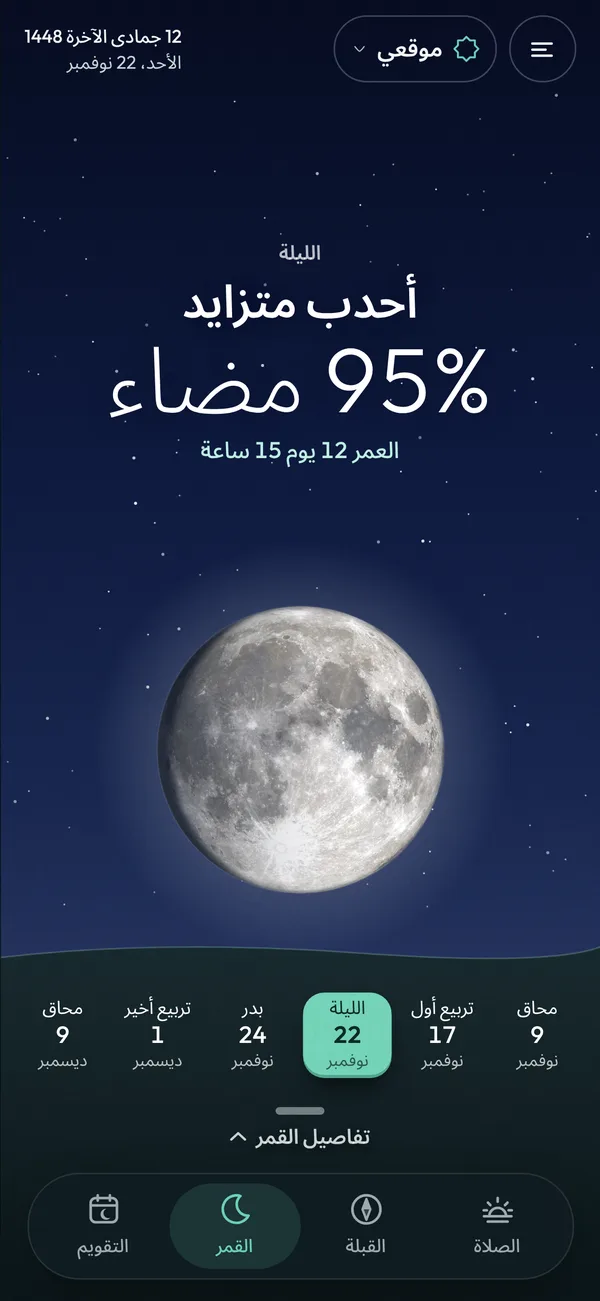
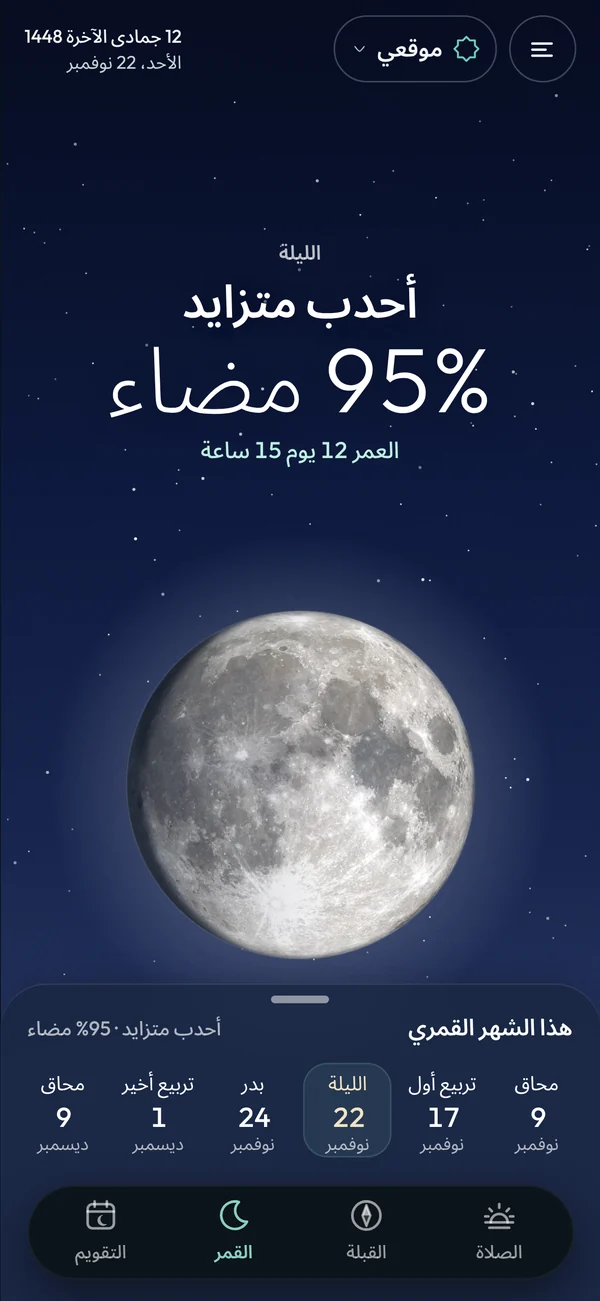
Site for 1.2.2 (publish on release day): privacy lists the announcements download; support Hijri step moved to the Calendar tab; phone images recaptured from the 1.2.2 build (one sheet), EN/AR
Claude-Session: https://claude.ai/code/session_01CTkcYGxRRXc6Q2ebrmyknd

Changed region(s): [[0.0, 0.4612, 1.0, 1.0]]

diff --git a/support.html b/support.html
@@ -347,7 +347,7 @@ h1,h2,h3,p{margin:0}
 <main class="wrap"><h2 class="sh" style="margin-top:72px">Quick fixes</h2><div class="grid3">
 <section class="card fix"><div class="hd"><span class="ico"><svg viewBox="0 0 24 24" fill="none" stroke="currentColor" stroke-width="1.6" stroke-linecap="round" stroke-linejoin="round" aria-hidden="true"><circle cx="12" cy="12" r="9"/><path d="M12 7v5l3.2 2"/></svg></span><h3>Times differ from the mosque by a minute?</h3></div><ol class="steps"><li><span class="si"><svg viewBox="0 0 24 24" fill="none" stroke="currentColor" stroke-width="1.6" stroke-linecap="round" stroke-linejoin="round" aria-hidden="true"><path d="M4 5.5A2.5 2.5 0 016.5 3H20v15H6.5A2.5 2.5 0 004 20.5z"/><path d="M4 20.5A2.5 2.5 0 006.5 23H20v-5"/></svg></span><span>In the UAE, Saudi Arabia and Egypt, Arihna follows the official timetable for your area</span></li><li><span class="si"><svg viewBox="0 0 24 24" fill="none" stroke="currentColor" stroke-width="1.6" stroke-linecap="round" stroke-linejoin="round" aria-hidden="true" stroke-width="2"><path d="M5 12.5l4.2 4.2L19 7"/></svg></span><span>In the UK, the US and Canada, tap Match my mosque under the countdown and fit your mosque’s times</span></li></ol></section>
 <section class="card fix"><div class="hd"><span class="ico"><svg viewBox="0 0 24 24" fill="none" stroke="currentColor" stroke-width="1.6" stroke-linecap="round" stroke-linejoin="round" aria-hidden="true"><circle cx="12" cy="12" r="9"/><path d="M15.5 8.5l-2 5-5 2 2-5z"/></svg></span><h3>The compass seems off?</h3></div><ol class="steps"><li><span class="si"><svg viewBox="0 0 24 24" fill="none" stroke="currentColor" stroke-width="1.6" stroke-linecap="round" stroke-linejoin="round" aria-hidden="true"><path d="M6 4h4v8a2 2 0 004 0V4h4v8a6 6 0 01-12 0z"/><path d="M6 8h4M14 8h4"/></svg></span><span>Move away from metal, magnets, cars and magnetic cases</span></li><li><span class="si"><svg viewBox="0 0 24 24" fill="none" stroke="currentColor" stroke-width="1.6" stroke-linecap="round" stroke-linejoin="round" aria-hidden="true"><path d="M12 12c-2.6-2.4-6-3.4-6-.1S9.4 14.4 12 12s6-3.4 6-.1-3.4 2.5-6 .1z"/></svg></span><span>Wave the phone in a figure of eight</span></li><li><span class="si"><svg viewBox="0 0 24 24" fill="none" stroke="currentColor" stroke-width="1.6" stroke-linecap="round" stroke-linejoin="round" aria-hidden="true"><circle cx="12" cy="12" r="4"/><path d="M12 2.5v2M12 19.5v2M2.5 12h2M19.5 12h2M5.3 5.3l1.4 1.4M17.3 17.3l1.4 1.4M5.3 18.7l1.4-1.4M17.3 6.7l1.4-1.4"/></svg></span><span>Far from Makkah, the direction can differ from a straight line on Google Maps: Qibla details shows why on a globe</span></li></ol></section>
-<section class="card fix"><div class="hd"><span class="ico"><svg viewBox="0 0 24 24" fill="none" stroke="currentColor" stroke-width="1.6" stroke-linecap="round" stroke-linejoin="round" aria-hidden="true"><path d="M20 14.5A8 8 0 019.5 4a8 8 0 1010.5 10.5z"/></svg></span><h3>The Hijri date is a day apart?</h3></div><ol class="steps"><li><span class="si"><svg viewBox="0 0 24 24" fill="none" stroke="currentColor" stroke-width="2" stroke-linecap="round" stroke-linejoin="round" aria-hidden="true"><path d="M5 12.5l4.2 4.2L19 7"/></svg></span><span>Each country keeps its own calendar: Umm al-Qura in Saudi Arabia, Awqaf in the UAE, Dar al-Ifta in Egypt</span></li><li><span class="si"><svg viewBox="0 0 24 24" fill="none" stroke="currentColor" stroke-width="2" stroke-linecap="round" stroke-linejoin="round" aria-hidden="true"><path d="M5 12.5l4.2 4.2L19 7"/></svg></span><span>Elsewhere, choose Saudi Arabia or the Fiqh Council of North America under Hijri calendar in Settings</span></li></ol></section>
+<section class="card fix"><div class="hd"><span class="ico"><svg viewBox="0 0 24 24" fill="none" stroke="currentColor" stroke-width="1.6" stroke-linecap="round" stroke-linejoin="round" aria-hidden="true"><path d="M20 14.5A8 8 0 019.5 4a8 8 0 1010.5 10.5z"/></svg></span><h3>The Hijri date is a day apart?</h3></div><ol class="steps"><li><span class="si"><svg viewBox="0 0 24 24" fill="none" stroke="currentColor" stroke-width="2" stroke-linecap="round" stroke-linejoin="round" aria-hidden="true"><path d="M5 12.5l4.2 4.2L19 7"/></svg></span><span>Each country keeps its own calendar: Umm al-Qura in Saudi Arabia, Awqaf in the UAE, Dar al-Ifta in Egypt</span></li><li><span class="si"><svg viewBox="0 0 24 24" fill="none" stroke="currentColor" stroke-width="2" stroke-linecap="round" stroke-linejoin="round" aria-hidden="true"><path d="M5 12.5l4.2 4.2L19 7"/></svg></span><span>Elsewhere, tap the Hijri line on the Calendar tab and choose Saudi Arabia or the Fiqh Council of North America</span></li></ol></section>
 <section class="card fix"><div class="hd"><span class="ico"><svg viewBox="0 0 24 24" fill="none" stroke="currentColor" stroke-width="1.6" stroke-linecap="round" stroke-linejoin="round" aria-hidden="true"><path d="M6 16V11a6 6 0 0112 0v5l1.5 2h-15z"/><path d="M10 20.5a2.2 2.2 0 004 0"/></svg></span><h3>Notifications don’t arrive?</h3></div><ol class="steps"><li><span class="si"><svg viewBox="0 0 24 24" fill="none" stroke="currentColor" stroke-width="1.6" stroke-linecap="round" stroke-linejoin="round" aria-hidden="true"><circle cx="12" cy="12" r="3"/><path d="M19.4 15a1.6 1.6 0 00.3 1.8l.1.1a2 2 0 11-2.8 2.8l-.1-.1a1.6 1.6 0 00-1.8-.3 1.6 1.6 0 00-1 1.5V21a2 2 0 01-4 0v-.1a1.6 1.6 0 00-1-1.5 1.6 1.6 0 00-1.8.3l-.1.1a2 2 0 11-2.8-2.8l.1-.1a1.6 1.6 0 00.3-1.8 1.6 1.6 0 00-1.5-1H3a2 2 0 010-4h.1a1.6 1.6 0 001.5-1 1.6 1.6 0 00-.3-1.8l-.1-.1a2 2 0 112.8-2.8l.1.1a1.6 1.6 0 001.8.3H9a1.6 1.6 0 001-1.5V3a2 2 0 014 0v.1a1.6 1.6 0 001 1.5 1.6 1.6 0 001.8-.3l.1-.1a2 2 0 112.8 2.8l-.1.1a1.6 1.6 0 00-.3 1.8V9a1.6 1.6 0 001.5 1H21a2 2 0 010 4h-.1a1.6 1.6 0 00-1.5 1z"/></svg></span><span>iPhone Settings → Notifications → Arihna</span></li><li><span class="si"><svg viewBox="0 0 24 24" fill="none" stroke="currentColor" stroke-width="1.6" stroke-linecap="round" stroke-linejoin="round" aria-hidden="true"><path d="M20 11a8 8 0 00-14.3-4.6L4 8M4 4v4h4M4 13a8 8 0 0014.3 4.6L20 16M20 20v-4h-4"/></svg></span><span>Open the app every week or two: iOS keeps a limited number of alerts, and the app tops them up</span></li></ol></section>
 <section class="card fix"><div class="hd"><span class="ico"><svg viewBox="0 0 24 24" fill="none" stroke="currentColor" stroke-width="1.6" stroke-linecap="round" stroke-linejoin="round" aria-hidden="true"><circle cx="12" cy="12" r="7.5" stroke-dasharray=".1 3.9"/><path d="M12 19.5V22"/></svg></span><h3>Morning and evening remembrance</h3></div><ol class="steps"><li><span class="si"><svg viewBox="0 0 24 24" fill="none" stroke="currentColor" stroke-width="1.6" stroke-linecap="round" stroke-linejoin="round" aria-hidden="true"><circle cx="12" cy="12" r="3"/></svg></span><span>From Hisn al-Muslim, in Arabic. Open it from the menu, or from Today’s times</span></li><li><span class="si"><svg viewBox="0 0 24 24" fill="none" stroke="currentColor" stroke-width="1.6" stroke-linecap="round" stroke-linejoin="round" aria-hidden="true"><circle cx="12" cy="12" r="3"/></svg></span><span>Reminders are off until you turn them on: Menu, then Adhan and alerts</span></li><li><span class="si"><svg viewBox="0 0 24 24" fill="none" stroke="currentColor" stroke-width="1.6" stroke-linecap="round" stroke-linejoin="round" aria-hidden="true"><circle cx="12" cy="12" r="3"/></svg></span><span>Found a difference from the printed book? Tell us the dhikr and what differs</span></li></ol></section>
 <section class="card fix" id="credits"><div class="hd"><span class="ico"><svg viewBox="0 0 24 24" fill="none" stroke="currentColor" stroke-width="1.6" stroke-linecap="round" stroke-linejoin="round" aria-hidden="true"><path d="M5 4h11a3 3 0 0 1 3 3v13H8a3 3 0 0 1-3-3z"/><path d="M9 9h6"/></svg></span><h3>Sources and credits</h3></div><ol class="steps"><li><span class="si"><svg viewBox="0 0 24 24" fill="none" stroke="currentColor" stroke-width="1.6" stroke-linecap="round" stroke-linejoin="round" aria-hidden="true"><circle cx="12" cy="12" r="3"/></svg></span><span>Remembrance: Hisn al-Muslim, by Dr. Sa’id ibn Ali ibn Wahf al-Qahtani</span></li><li><span class="si"><svg viewBox="0 0 24 24" fill="none" stroke="currentColor" stroke-width="1.6" stroke-linecap="round" stroke-linejoin="round" aria-hidden="true"><circle cx="12" cy="12" r="3"/></svg></span><span>Qur’anic text: Tanzil Project, tanzil.net</span></li><li><span class="si"><svg viewBox="0 0 24 24" fill="none" stroke="currentColor" stroke-width="1.6" stroke-linecap="round" stroke-linejoin="round" aria-hidden="true"><circle cx="12" cy="12" r="3"/></svg></span><span>Adhan of Makkah: Seyfula Islam, CC BY 3.0, via Wikimedia Commons. Adhan of Madinah: public domain. Moon picture: NASA’s Scientific Visualization Studio (Lunar Reconnaissance Orbiter)</span></li></ol></section>
@@ -357,7 +357,7 @@ h1,h2,h3,p{margin:0}
 <main class="wrap"><h2 class="sh" style="margin-top:72px">حلول سريعة</h2><div class="grid3">
 <section class="card fix"><div class="hd"><span class="ico"><svg viewBox="0 0 24 24" fill="none" stroke="currentColor" stroke-width="1.6" stroke-linecap="round" stroke-linejoin="round" aria-hidden="true"><circle cx="12" cy="12" r="9"/><path d="M12 7v5l3.2 2"/></svg></span><h3>المواقيت تختلف عن المسجد بدقيقة؟</h3></div><ol class="steps"><li><span class="si"><svg viewBox="0 0 24 24" fill="none" stroke="currentColor" stroke-width="1.6" stroke-linecap="round" stroke-linejoin="round" aria-hidden="true"><path d="M4 5.5A2.5 2.5 0 016.5 3H20v15H6.5A2.5 2.5 0 004 20.5z"/><path d="M4 20.5A2.5 2.5 0 006.5 23H20v-5"/></svg></span><span>في الإمارات والسعودية ومصر يتبع أرحنا الجدول الرسمي لمنطقتك</span></li><li><span class="si"><svg viewBox="0 0 24 24" fill="none" stroke="currentColor" stroke-width="1.6" stroke-linecap="round" stroke-linejoin="round" aria-hidden="true" stroke-width="2"><path d="M5 12.5l4.2 4.2L19 7"/></svg></span><span>في المملكة المتحدة والولايات المتحدة وكندا اضغط «طابق مسجدي» أسفل العدّ وطابِق مواقيت مسجدك</span></li></ol></section>
 <section class="card fix"><div class="hd"><span class="ico"><svg viewBox="0 0 24 24" fill="none" stroke="currentColor" stroke-width="1.6" stroke-linecap="round" stroke-linejoin="round" aria-hidden="true"><circle cx="12" cy="12" r="9"/><path d="M15.5 8.5l-2 5-5 2 2-5z"/></svg></span><h3>البوصلة تبدو غير دقيقة؟</h3></div><ol class="steps"><li><span class="si"><svg viewBox="0 0 24 24" fill="none" stroke="currentColor" stroke-width="1.6" stroke-linecap="round" stroke-linejoin="round" aria-hidden="true"><path d="M6 4h4v8a2 2 0 004 0V4h4v8a6 6 0 01-12 0z"/><path d="M6 8h4M14 8h4"/></svg></span><span>ابتعد عن المعادن والمغناطيس والسيارات والأغطية المغناطيسية</span></li><li><span class="si"><svg viewBox="0 0 24 24" fill="none" stroke="currentColor" stroke-width="1.6" stroke-linecap="round" stroke-linejoin="round" aria-hidden="true"><path d="M12 12c-2.6-2.4-6-3.4-6-.1S9.4 14.4 12 12s6-3.4 6-.1-3.4 2.5-6 .1z"/></svg></span><span>حرّك الهاتف على شكل الرقم 8</span></li><li><span class="si"><svg viewBox="0 0 24 24" fill="none" stroke="currentColor" stroke-width="1.6" stroke-linecap="round" stroke-linejoin="round" aria-hidden="true"><circle cx="12" cy="12" r="4"/><path d="M12 2.5v2M12 19.5v2M2.5 12h2M19.5 12h2M5.3 5.3l1.4 1.4M17.3 17.3l1.4 1.4M5.3 18.7l1.4-1.4M17.3 6.7l1.4-1.4"/></svg></span><span>بعيدًا عن مكة قد يختلف الاتجاه عن الخط المستقيم في خرائط Google، وتفاصيل القبلة تشرح السبب على الكرة الأرضية</span></li></ol></section>
-<section class="card fix"><div class="hd"><span class="ico"><svg viewBox="0 0 24 24" fill="none" stroke="currentColor" stroke-width="1.6" stroke-linecap="round" stroke-linejoin="round" aria-hidden="true"><path d="M20 14.5A8 8 0 019.5 4a8 8 0 1010.5 10.5z"/></svg></span><h3>التاريخ الهجري يختلف بيوم؟</h3></div><ol class="steps"><li><span class="si"><svg viewBox="0 0 24 24" fill="none" stroke="currentColor" stroke-width="2" stroke-linecap="round" stroke-linejoin="round" aria-hidden="true"><path d="M5 12.5l4.2 4.2L19 7"/></svg></span><span>لكل دولة تقويمها: أم القرى في السعودية، والأوقاف في الإمارات، ودار الإفتاء في مصر</span></li><li><span class="si"><svg viewBox="0 0 24 24" fill="none" stroke="currentColor" stroke-width="2" stroke-linecap="round" stroke-linejoin="round" aria-hidden="true"><path d="M5 12.5l4.2 4.2L19 7"/></svg></span><span>وفي غيرها اختر السعودية أو المجلس الفقهي لأمريكا الشمالية من «التقويم الهجري» في الإعدادات</span></li></ol></section>
+<section class="card fix"><div class="hd"><span class="ico"><svg viewBox="0 0 24 24" fill="none" stroke="currentColor" stroke-width="1.6" stroke-linecap="round" stroke-linejoin="round" aria-hidden="true"><path d="M20 14.5A8 8 0 019.5 4a8 8 0 1010.5 10.5z"/></svg></span><h3>التاريخ الهجري يختلف بيوم؟</h3></div><ol class="steps"><li><span class="si"><svg viewBox="0 0 24 24" fill="none" stroke="currentColor" stroke-width="2" stroke-linecap="round" stroke-linejoin="round" aria-hidden="true"><path d="M5 12.5l4.2 4.2L19 7"/></svg></span><span>لكل دولة تقويمها: أم القرى في السعودية، والأوقاف في الإمارات، ودار الإفتاء في مصر</span></li><li><span class="si"><svg viewBox="0 0 24 24" fill="none" stroke="currentColor" stroke-width="2" stroke-linecap="round" stroke-linejoin="round" aria-hidden="true"><path d="M5 12.5l4.2 4.2L19 7"/></svg></span><span>وفي غيرها اضغط سطر التقويم الهجري في صفحة التقويم واختر السعودية أو المجلس الفقهي لأمريكا الشمالية</span></li></ol></section>
 <section class="card fix"><div class="hd"><span class="ico"><svg viewBox="0 0 24 24" fill="none" stroke="currentColor" stroke-width="1.6" stroke-linecap="round" stroke-linejoin="round" aria-hidden="true"><path d="M6 16V11a6 6 0 0112 0v5l1.5 2h-15z"/><path d="M10 20.5a2.2 2.2 0 004 0"/></svg></span><h3>التنبيهات لا تصل؟</h3></div><ol class="steps"><li><span class="si"><svg viewBox="0 0 24 24" fill="none" stroke="currentColor" stroke-width="1.6" stroke-linecap="round" stroke-linejoin="round" aria-hidden="true"><circle cx="12" cy="12" r="3"/><path d="M19.4 15a1.6 1.6 0 00.3 1.8l.1.1a2 2 0 11-2.8 2.8l-.1-.1a1.6 1.6 0 00-1.8-.3 1.6 1.6 0 00-1 1.5V21a2 2 0 01-4 0v-.1a1.6 1.6 0 00-1-1.5 1.6 1.6 0 00-1.8.3l-.1.1a2 2 0 11-2.8-2.8l.1-.1a1.6 1.6 0 00.3-1.8 1.6 1.6 0 00-1.5-1H3a2 2 0 010-4h.1a1.6 1.6 0 001.5-1 1.6 1.6 0 00-.3-1.8l-.1-.1a2 2 0 112.8-2.8l.1.1a1.6 1.6 0 001.8.3H9a1.6 1.6 0 001-1.5V3a2 2 0 014 0v.1a1.6 1.6 0 001 1.5 1.6 1.6 0 001.8-.3l.1-.1a2 2 0 112.8 2.8l-.1.1a1.6 1.6 0 00-.3 1.8V9a1.6 1.6 0 001.5 1H21a2 2 0 010 4h-.1a1.6 1.6 0 00-1.5 1z"/></svg></span><span>إعدادات iPhone ← الإشعارات ← أرحنا</span></li><li><span class="si"><svg viewBox="0 0 24 24" fill="none" stroke="currentColor" stroke-width="1.6" stroke-linecap="round" stroke-linejoin="round" aria-hidden="true"><path d="M20 11a8 8 0 00-14.3-4.6L4 8M4 4v4h4M4 13a8 8 0 0014.3 4.6L20 16M20 20v-4h-4"/></svg></span><span>افتح التطبيق كل أسبوع أو أسبوعين: يحتفظ iOS بعدد محدود من التنبيهات، ويجددها التطبيق</span></li></ol></section>
 <section class="card fix"><div class="hd"><span class="ico"><svg viewBox="0 0 24 24" fill="none" stroke="currentColor" stroke-width="1.6" stroke-linecap="round" stroke-linejoin="round" aria-hidden="true"><circle cx="12" cy="12" r="7.5" stroke-dasharray=".1 3.9"/><path d="M12 19.5V22"/></svg></span><h3>أذكار الصباح والمساء</h3></div><ol class="steps"><li><span class="si"><svg viewBox="0 0 24 24" fill="none" stroke="currentColor" stroke-width="1.6" stroke-linecap="round" stroke-linejoin="round" aria-hidden="true"><circle cx="12" cy="12" r="3"/></svg></span><span>من «حصن المسلم»، بالعربية. افتحها من القائمة أو من «مواقيت اليوم»</span></li><li><span class="si"><svg viewBox="0 0 24 24" fill="none" stroke="currentColor" stroke-width="1.6" stroke-linecap="round" stroke-linejoin="round" aria-hidden="true"><circle cx="12" cy="12" r="3"/></svg></span><span>التذكير متوقف إلى أن تفعّله: القائمة، ثم «الأذان والتنبيهات»</span></li><li><span class="si"><svg viewBox="0 0 24 24" fill="none" stroke="currentColor" stroke-width="1.6" stroke-linecap="round" stroke-linejoin="round" aria-hidden="true"><circle cx="12" cy="12" r="3"/></svg></span><span>وجدت اختلافًا عن النسخة المطبوعة؟ اذكر لنا الذكر وموضع الاختلاف</span></li></ol></section>
 <section class="card fix" id="credits-ar"><div class="hd"><span class="ico"><svg viewBox="0 0 24 24" fill="none" stroke="currentColor" stroke-width="1.6" stroke-linecap="round" stroke-linejoin="round" aria-hidden="true"><path d="M5 4h11a3 3 0 0 1 3 3v13H8a3 3 0 0 1-3-3z"/><path d="M9 9h6"/></svg></span><h3>المصادر والحقوق</h3></div><ol class="steps"><li><span class="si"><svg viewBox="0 0 24 24" fill="none" stroke="currentColor" stroke-width="1.6" stroke-linecap="round" stroke-linejoin="round" aria-hidden="true"><circle cx="12" cy="12" r="3"/></svg></span><span>الأذكار: «حصن المسلم» للدكتور سعيد بن علي بن وهف القحطاني</span></li><li><span class="si"><svg viewBox="0 0 24 24" fill="none" stroke="currentColor" stroke-width="1.6" stroke-linecap="round" stroke-linejoin="round" aria-hidden="true"><circle cx="12" cy="12" r="3"/></svg></span><span>النص القرآني: مشروع تنزيل، tanzil.net</span></li><li><span class="si"><svg viewBox="0 0 24 24" fill="none" stroke="currentColor" stroke-width="1.6" stroke-linecap="round" stroke-linejoin="round" aria-hidden="true"><circle cx="12" cy="12" r="3"/></svg></span><span>أذان مكة المكرمة: Seyfula Islam، بترخيص CC BY 3.0، عبر ويكيميديا كومنز. أذان المدينة المنورة: ملكية عامة. صورة القمر: استوديو التصوير العلمي في ناسا (مسبار استطلاع القمر)</span></li></ol></section>

diff --git a/privacy.html b/privacy.html
@@ -350,7 +350,7 @@ h1,h2,h3,p{margin:0}
 <section class="card"><div class="hd"><span class="ico sky"><svg viewBox="0 0 24 24" fill="none" stroke="currentColor" stroke-width="1.6" stroke-linecap="round" stroke-linejoin="round" aria-hidden="true"><path d="M12 21s-6.5-5.6-6.5-11a6.5 6.5 0 0113 0c0 5.4-6.5 11-6.5 11z"/><circle cx="12" cy="10" r="2.4"/></svg></span><div><h3>Location</h3><span class="tag">Optional</span></div></div><ul class="ck"><li><svg viewBox="0 0 24 24" fill="none" stroke="currentColor" stroke-width="1.6" stroke-linecap="round" stroke-linejoin="round" aria-hidden="true" stroke-width="2"><path d="M5 12.5l4.2 4.2L19 7"/></svg><span>Used only if you choose “My location”</span></li><li><svg viewBox="0 0 24 24" fill="none" stroke="currentColor" stroke-width="1.6" stroke-linecap="round" stroke-linejoin="round" aria-hidden="true" stroke-width="2"><path d="M5 12.5l4.2 4.2L19 7"/></svg><span>Stays inside the app and its widgets</span></li><li><svg viewBox="0 0 24 24" fill="none" stroke="currentColor" stroke-width="1.6" stroke-linecap="round" stroke-linejoin="round" aria-hidden="true" stroke-width="2"><path d="M5 12.5l4.2 4.2L19 7"/></svg><span>Your area name comes from Apple, once, as in Maps</span></li><li><svg viewBox="0 0 24 24" fill="none" stroke="currentColor" stroke-width="1.6" stroke-linecap="round" stroke-linejoin="round" aria-hidden="true" stroke-width="2"><path d="M5 12.5l4.2 4.2L19 7"/></svg><span>Or pick a city from the list and share nothing</span></li></ul></section>
 <section class="card"><div class="hd"><span class="ico sky"><svg viewBox="0 0 24 24" fill="none" stroke="currentColor" stroke-width="1.6" stroke-linecap="round" stroke-linejoin="round" aria-hidden="true"><circle cx="12" cy="12" r="9"/><path d="M15.5 8.5l-2 5-5 2 2-5z"/></svg></span><div><h3>Compass and motion</h3><span class="tag">Qibla screen only</span></div></div><ul class="ck"><li><svg viewBox="0 0 24 24" fill="none" stroke="currentColor" stroke-width="1.6" stroke-linecap="round" stroke-linejoin="round" aria-hidden="true" stroke-width="2"><path d="M5 12.5l4.2 4.2L19 7"/></svg><span>Read live to turn the dial</span></li><li><svg viewBox="0 0 24 24" fill="none" stroke="currentColor" stroke-width="1.6" stroke-linecap="round" stroke-linejoin="round" aria-hidden="true" stroke-width="2"><path d="M5 12.5l4.2 4.2L19 7"/></svg><span>Never stored, never sent</span></li></ul></section>
 <section class="card"><div class="hd"><span class="ico sky"><svg viewBox="0 0 24 24" fill="none" stroke="currentColor" stroke-width="1.6" stroke-linecap="round" stroke-linejoin="round" aria-hidden="true"><path d="M6 16V11a6 6 0 0112 0v5l1.5 2h-15z"/><path d="M10 20.5a2.2 2.2 0 004 0"/></svg></span><div><h3>Notifications and Live Activity</h3><span class="tag">On your phone</span></div></div><ul class="ck"><li><svg viewBox="0 0 24 24" fill="none" stroke="currentColor" stroke-width="1.6" stroke-linecap="round" stroke-linejoin="round" aria-hidden="true" stroke-width="2"><path d="M5 12.5l4.2 4.2L19 7"/></svg><span>Scheduled by iOS itself</span></li><li><svg viewBox="0 0 24 24" fill="none" stroke="currentColor" stroke-width="1.6" stroke-linecap="round" stroke-linejoin="round" aria-hidden="true" stroke-width="2"><path d="M5 12.5l4.2 4.2L19 7"/></svg><span>No push server involved</span></li></ul></section>
-<section class="card"><div class="hd"><span class="ico sky"><svg viewBox="0 0 24 24" fill="none" stroke="currentColor" stroke-width="1.6" stroke-linecap="round" stroke-linejoin="round" aria-hidden="true"><path d="M12 4v10"/><path d="M7.5 9.5L12 14l4.5-4.5"/><path d="M5 19h14"/></svg></span><div><h3>Updates</h3><span class="tag">Once a day</span></div></div><ul class="ck"><li><svg viewBox="0 0 24 24" fill="none" stroke="currentColor" stroke-width="1.6" stroke-linecap="round" stroke-linejoin="round" aria-hidden="true" stroke-width="2"><path d="M5 12.5l4.2 4.2L19 7"/></svg><span>The app asks Apple whether a newer version is available</span></li><li><svg viewBox="0 0 24 24" fill="none" stroke="currentColor" stroke-width="1.6" stroke-linecap="round" stroke-linejoin="round" aria-hidden="true" stroke-width="2"><path d="M5 12.5l4.2 4.2L19 7"/></svg><span>Nothing about you is sent</span></li></ul></section>
+<section class="card"><div class="hd"><span class="ico sky"><svg viewBox="0 0 24 24" fill="none" stroke="currentColor" stroke-width="1.6" stroke-linecap="round" stroke-linejoin="round" aria-hidden="true"><path d="M12 4v10"/><path d="M7.5 9.5L12 14l4.5-4.5"/><path d="M5 19h14"/></svg></span><div><h3>Updates and announcements</h3><span class="tag">Once a day</span></div></div><ul class="ck"><li><svg viewBox="0 0 24 24" fill="none" stroke="currentColor" stroke-width="1.6" stroke-linecap="round" stroke-linejoin="round" aria-hidden="true" stroke-width="2"><path d="M5 12.5l4.2 4.2L19 7"/></svg><span>The app asks Apple whether a newer version is available</span></li><li><svg viewBox="0 0 24 24" fill="none" stroke="currentColor" stroke-width="1.6" stroke-linecap="round" stroke-linejoin="round" aria-hidden="true" stroke-width="2"><path d="M5 12.5l4.2 4.2L19 7"/></svg><span>With notifications on, it downloads Arihna’s signed list of month announcements from getarihna.com</span></li><li><svg viewBox="0 0 24 24" fill="none" stroke="currentColor" stroke-width="1.6" stroke-linecap="round" stroke-linejoin="round" aria-hidden="true" stroke-width="2"><path d="M5 12.5l4.2 4.2L19 7"/></svg><span>Nothing about you is sent</span></li></ul></section>
 </div><div class="notes"><div class="note"><span class="ico sun"><svg viewBox="0 0 24 24" fill="none" stroke="currentColor" stroke-width="1.6" stroke-linecap="round" stroke-linejoin="round" aria-hidden="true"><circle cx="12" cy="6" r="2.6"/><path d="M8 21v-5l-2-3.5 3-2.5h6l3 2.5-2 3.5v5"/></svg></span><div><b>All ages</b><span>The app collects nothing from anyone, including children.</span></div></div><div class="note"><span class="ico sun"><svg viewBox="0 0 24 24" fill="none" stroke="currentColor" stroke-width="1.6" stroke-linecap="round" stroke-linejoin="round" aria-hidden="true"><path d="M20 11a8 8 0 00-14.3-4.6L4 8M4 4v4h4M4 13a8 8 0 0014.3 4.6L20 16M20 20v-4h-4"/></svg></span><div><b>Changes</b><span>Any update is published here with a new date.</span></div></div></div>
 <a class="xcard" href="support.html"><span class="ico sky"><svg viewBox="0 0 24 24" fill="none" stroke="currentColor" stroke-width="1.6" stroke-linecap="round" stroke-linejoin="round" aria-hidden="true"><path d="M4 5.5h16v10.5H9.5L5 19.5V16H4z"/><path d="M8.5 9.5h7M8.5 12.5h4.5"/></svg></span><div><b>Need help?</b><small>Quick fixes and feedback</small></div><svg viewBox="0 0 24 24" fill="none" stroke="currentColor" stroke-width="1.6" stroke-linecap="round" stroke-linejoin="round" aria-hidden="true"><path d="M5 12h14M13 6l6 6-6 6"/></svg></a><div class="dend"></div></main><div class="wrap"><footer class="foot"><span>© 2026 Amr Hafez · Visits counted by GoatCounter, without cookies or personal data</span><nav class="fl"><a href="./">Arihna</a><a href="privacy.html">Privacy</a><a href="support.html">Support</a><a href="mailto:arihna.app@gmail.com">arihna.app@gmail.com</a></nav></footer></div></div><div class="site" lang="ar" dir="rtl" data-l="ar"><header class="dhead"><div class="stars"></div><div class="wrap">
 <nav class="nav"><a class="brand" href="ar/"><svg class="lg" viewBox="0 0 1024 1024" aria-hidden="true"><defs><linearGradient id="k2" x1="0" y1="0" x2="0" y2="1"><stop offset="0" stop-color="#0F2747"/><stop offset=".6" stop-color="#2D6592"/><stop offset=".82" stop-color="#E3A979"/></linearGradient><radialGradient id="h2"><stop offset="0" stop-color="#F6C35B" stop-opacity=".7"/><stop offset=".45" stop-color="#F6C35B" stop-opacity=".18"/><stop offset="1" stop-color="#F6C35B" stop-opacity="0"/></radialGradient><clipPath id="a2"><path d="M232 910L232 480C232 300 362 190 512 100C662 190 792 300 792 480L792 910Z"/></clipPath></defs><rect width="1024" height="1024" fill="#0A1117"/><g clip-path="url(#a2)"><rect width="1024" height="1024" fill="url(#k2)"/><path d="M250 700Q412 384 575 460" fill="none" stroke="#F6C35B" stroke-width="22" stroke-linecap="round"/><circle cx="575" cy="460" r="190" fill="url(#h2)"/><polygon points="575,378 599,402 633,402 633,436 657,460 633,484 633,518 599,518 575,542 551,518 517,518 517,484 493,460 517,436 517,402 551,402" fill="#F6C35B"/><circle cx="575" cy="460" r="27" fill="#FCE7B0"/><path d="M0 1024L0 706Q256 700 512 708T1024 723L1024 1024Z" fill="#1D2D33"/><path d="M0 1024L0 787Q300 785 600 803T1024 786L1024 1024Z" fill="#152127"/></g><path d="M232 910L232 480C232 300 362 190 512 100C662 190 792 300 792 480L792 910Z" fill="none" stroke="#F6C35B" stroke-opacity=".9" stroke-width="22" stroke-linejoin="round"/></svg><b>أرحنا</b><span>Arihna</span></a><div class="nr"><button class="lang" type="button" data-set="en" lang="en">English</button><a class="badge" href="https://apps.apple.com/app/apple-store/id6828256774?pt=95948779&amp;ct=website-ar&amp;mt=8" aria-label="حمّل أرحنا من App Store"><img src="img/badge-app-store.svg" alt="Download on the App Store" width="120" height="40"></a></div></nav>
@@ -361,7 +361,7 @@ h1,h2,h3,p{margin:0}
 <section class="card"><div class="hd"><span class="ico sky"><svg viewBox="0 0 24 24" fill="none" stroke="currentColor" stroke-width="1.6" stroke-linecap="round" stroke-linejoin="round" aria-hidden="true"><path d="M12 21s-6.5-5.6-6.5-11a6.5 6.5 0 0113 0c0 5.4-6.5 11-6.5 11z"/><circle cx="12" cy="10" r="2.4"/></svg></span><div><h3>الموقع</h3><span class="tag">اختياري</span></div></div><ul class="ck"><li><svg viewBox="0 0 24 24" fill="none" stroke="currentColor" stroke-width="1.6" stroke-linecap="round" stroke-linejoin="round" aria-hidden="true" stroke-width="2"><path d="M5 12.5l4.2 4.2L19 7"/></svg><span>فقط إن اخترت «موقعي»</span></li><li><svg viewBox="0 0 24 24" fill="none" stroke="currentColor" stroke-width="1.6" stroke-linecap="round" stroke-linejoin="round" aria-hidden="true" stroke-width="2"><path d="M5 12.5l4.2 4.2L19 7"/></svg><span>يبقى داخل التطبيق وأدواته</span></li><li><svg viewBox="0 0 24 24" fill="none" stroke="currentColor" stroke-width="1.6" stroke-linecap="round" stroke-linejoin="round" aria-hidden="true" stroke-width="2"><path d="M5 12.5l4.2 4.2L19 7"/></svg><span>اسم منطقتك من خدمة المواقع من أبل، مرة واحدة كما في الخرائط</span></li><li><svg viewBox="0 0 24 24" fill="none" stroke="currentColor" stroke-width="1.6" stroke-linecap="round" stroke-linejoin="round" aria-hidden="true" stroke-width="2"><path d="M5 12.5l4.2 4.2L19 7"/></svg><span>أو اختر مدينة من القائمة دون مشاركة شيء</span></li></ul></section>
 <section class="card"><div class="hd"><span class="ico sky"><svg viewBox="0 0 24 24" fill="none" stroke="currentColor" stroke-width="1.6" stroke-linecap="round" stroke-linejoin="round" aria-hidden="true"><circle cx="12" cy="12" r="9"/><path d="M15.5 8.5l-2 5-5 2 2-5z"/></svg></span><div><h3>البوصلة والحركة</h3><span class="tag">شاشة القبلة فقط</span></div></div><ul class="ck"><li><svg viewBox="0 0 24 24" fill="none" stroke="currentColor" stroke-width="1.6" stroke-linecap="round" stroke-linejoin="round" aria-hidden="true" stroke-width="2"><path d="M5 12.5l4.2 4.2L19 7"/></svg><span>تُقرأ مباشرة لتدوير القرص</span></li><li><svg viewBox="0 0 24 24" fill="none" stroke="currentColor" stroke-width="1.6" stroke-linecap="round" stroke-linejoin="round" aria-hidden="true" stroke-width="2"><path d="M5 12.5l4.2 4.2L19 7"/></svg><span>لا تُحفظ ولا تُرسل</span></li></ul></section>
 <section class="card"><div class="hd"><span class="ico sky"><svg viewBox="0 0 24 24" fill="none" stroke="currentColor" stroke-width="1.6" stroke-linecap="round" stroke-linejoin="round" aria-hidden="true"><path d="M6 16V11a6 6 0 0112 0v5l1.5 2h-15z"/><path d="M10 20.5a2.2 2.2 0 004 0"/></svg></span><div><h3>التنبيهات والعدّ على شاشة القفل</h3><span class="tag">على جهازك</span></div></div><ul class="ck"><li><svg viewBox="0 0 24 24" fill="none" stroke="currentColor" stroke-width="1.6" stroke-linecap="round" stroke-linejoin="round" aria-hidden="true" stroke-width="2"><path d="M5 12.5l4.2 4.2L19 7"/></svg><span>يجدولها نظام iOS نفسه</span></li><li><svg viewBox="0 0 24 24" fill="none" stroke="currentColor" stroke-width="1.6" stroke-linecap="round" stroke-linejoin="round" aria-hidden="true" stroke-width="2"><path d="M5 12.5l4.2 4.2L19 7"/></svg><span>دون أي خادم للإشعارات</span></li></ul></section>
-<section class="card"><div class="hd"><span class="ico sky"><svg viewBox="0 0 24 24" fill="none" stroke="currentColor" stroke-width="1.6" stroke-linecap="round" stroke-linejoin="round" aria-hidden="true"><path d="M12 4v10"/><path d="M7.5 9.5L12 14l4.5-4.5"/><path d="M5 19h14"/></svg></span><div><h3>التحديثات</h3><span class="tag">مرة في اليوم</span></div></div><ul class="ck"><li><svg viewBox="0 0 24 24" fill="none" stroke="currentColor" stroke-width="1.6" stroke-linecap="round" stroke-linejoin="round" aria-hidden="true" stroke-width="2"><path d="M5 12.5l4.2 4.2L19 7"/></svg><span>يسأل التطبيق موقع أبل إن كان هناك إصدار أحدث</span></li><li><svg viewBox="0 0 24 24" fill="none" stroke="currentColor" stroke-width="1.6" stroke-linecap="round" stroke-linejoin="round" aria-hidden="true" stroke-width="2"><path d="M5 12.5l4.2 4.2L19 7"/></svg><span>لا يُرسل أي شيء عنك</span></li></ul></section>
+<section class="card"><div class="hd"><span class="ico sky"><svg viewBox="0 0 24 24" fill="none" stroke="currentColor" stroke-width="1.6" stroke-linecap="round" stroke-linejoin="round" aria-hidden="true"><path d="M12 4v10"/><path d="M7.5 9.5L12 14l4.5-4.5"/><path d="M5 19h14"/></svg></span><div><h3>التحديثات والإعلانات</h3><span class="tag">مرة في اليوم</span></div></div><ul class="ck"><li><svg viewBox="0 0 24 24" fill="none" stroke="currentColor" stroke-width="1.6" stroke-linecap="round" stroke-linejoin="round" aria-hidden="true" stroke-width="2"><path d="M5 12.5l4.2 4.2L19 7"/></svg><span>يسأل التطبيق موقع أبل إن كان هناك إصدار أحدث</span></li><li><svg viewBox="0 0 24 24" fill="none" stroke="currentColor" stroke-width="1.6" stroke-linecap="round" stroke-linejoin="round" aria-hidden="true" stroke-width="2"><path d="M5 12.5l4.2 4.2L19 7"/></svg><span>مع تشغيل التنبيهات، ينزّل قائمة أرحنا الموقّعة بإعلانات بدايات الأشهر من getarihna.com</span></li><li><svg viewBox="0 0 24 24" fill="none" stroke="currentColor" stroke-width="1.6" stroke-linecap="round" stroke-linejoin="round" aria-hidden="true" stroke-width="2"><path d="M5 12.5l4.2 4.2L19 7"/></svg><span>لا يُرسل أي شيء عنك</span></li></ul></section>
 </div><div class="notes"><div class="note"><span class="ico sun"><svg viewBox="0 0 24 24" fill="none" stroke="currentColor" stroke-width="1.6" stroke-linecap="round" stroke-linejoin="round" aria-hidden="true"><circle cx="12" cy="6" r="2.6"/><path d="M8 21v-5l-2-3.5 3-2.5h6l3 2.5-2 3.5v5"/></svg></span><div><b>لجميع الأعمار</b><span>لا يجمع التطبيق شيئًا من أي شخص، بمن فيهم الأطفال.</span></div></div><div class="note"><span class="ico sun"><svg viewBox="0 0 24 24" fill="none" stroke="currentColor" stroke-width="1.6" stroke-linecap="round" stroke-linejoin="round" aria-hidden="true"><path d="M20 11a8 8 0 00-14.3-4.6L4 8M4 4v4h4M4 13a8 8 0 0014.3 4.6L20 16M20 20v-4h-4"/></svg></span><div><b>التغييرات</b><span>يُنشر أي تحديث هنا بتاريخ جديد.</span></div></div></div>
 <a class="xcard" href="support.html?lang=ar"><span class="ico sky"><svg viewBox="0 0 24 24" fill="none" stroke="currentColor" stroke-width="1.6" stroke-linecap="round" stroke-linejoin="round" aria-hidden="true"><path d="M4 5.5h16v10.5H9.5L5 19.5V16H4z"/><path d="M8.5 9.5h7M8.5 12.5h4.5"/></svg></span><div><b>تحتاج إلى مساعدة؟</b><small>حلول سريعة وملاحظات</small></div><svg viewBox="0 0 24 24" fill="none" stroke="currentColor" stroke-width="1.6" stroke-linecap="round" stroke-linejoin="round" aria-hidden="true"><path d="M5 12h14M13 6l6 6-6 6"/></svg></a><div class="dend"></div></main><div class="wrap"><footer class="foot"><span>© 2026 عمرو حافظ · تُحصى الزيارات عبر GoatCounter دون ملفات تعريف ارتباط أو بيانات شخصية</span><nav class="fl"><a href="ar/">أرحنا</a><a href="privacy.html?lang=ar">سياسة الخصوصية</a><a href="support.html?lang=ar">الدعم</a><a href="mailto:arihna.app@gmail.com">arihna.app@gmail.com</a></nav></footer></div></div>
 <script>(function(){var q=new URLSearchParams(location.search).get('lang'),l=q==='ar'||q==='en'?q:((navigator.language||'').slice(0,2)==='ar'?'ar':'en');
